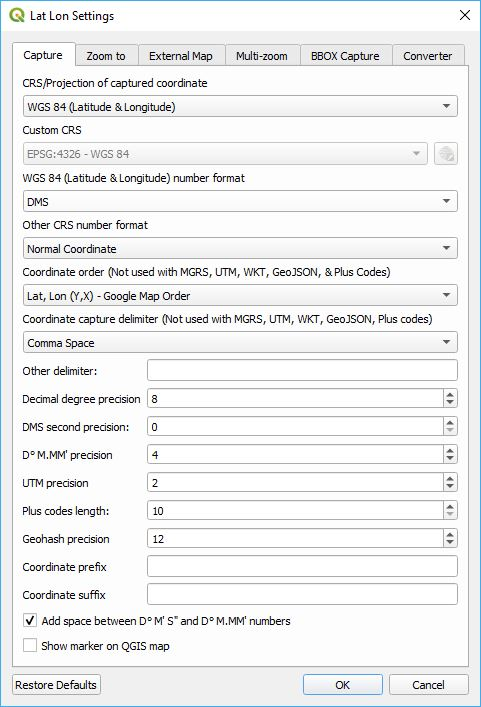
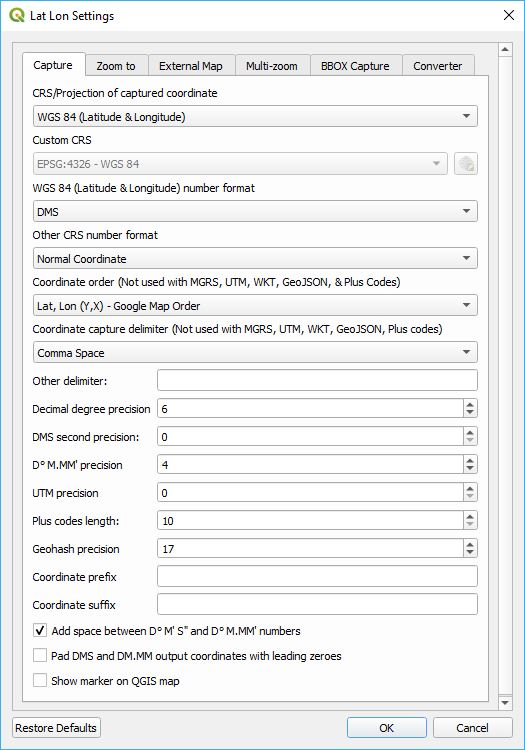
updated documentation for DMS 0 padding option

Changed region(s): [[0.0, 0.0, 0.9979, 1.0], [0.9667, 0.0, 0.9979, 0.0311]]

diff --git a/readme.md b/readme.md
@@ -169,6 +169,8 @@ The order in which the coordinates are captured is determined by ***Coordinate o
 * ***Coordinate prefix*** - This text string is added to the beginning of the captured coordinate.
 * ***Coordinate suffix*** - This text string is added to the end of the captured coordinate.
 * ***Add space between D&deg; M' S" and D&deg; M.MM' numbers*** - When checked a space will be added between each pair of numbers.
+* ***Pad DMS and DM.MM output coordinates with leading zeros*** - When checked individual DMS coordinates will be padded with leading zero. A coordinate that normally looks like 1° 5' 15"N, 10° 19' 50"W would become 01° 05' 15"N, 010° 19' 50"W.
+* ***Show marker on QGIS map*** - When checked, a persistant marker stays on the map at the clicked location until another location is clicked on or a new tools is selected.
 
 ### Zoom to Settings
 
@@ -310,3 +312,4 @@ These are the default settings for the ***Coordinate Conversion*** dialog box.
 * ***Delimiter between coordinate pairs*** is the delimiter used between coordinate pairs for those representations that require a delimiter.
 * ***DDMMSS delimiter*** is the delimiter used between DDMMSS coordinate pairs. Leave this blank if no space is desired between coordinates. The default is ", ".
 * ***Add space between D&deg; M' S" and D&deg; M.MM' numbers*** - When checked a space will be added between each pair of numbers.
+* ***Pad DMS and DM.MM output coordinates with leading zeros*** - When checked individual DMS coordinates will be padded with leading zero. A coordinate that normally looks like 1° 5' 15"N, 10° 19' 50"W would become 01° 05' 15"N, 010° 19' 50"W.
